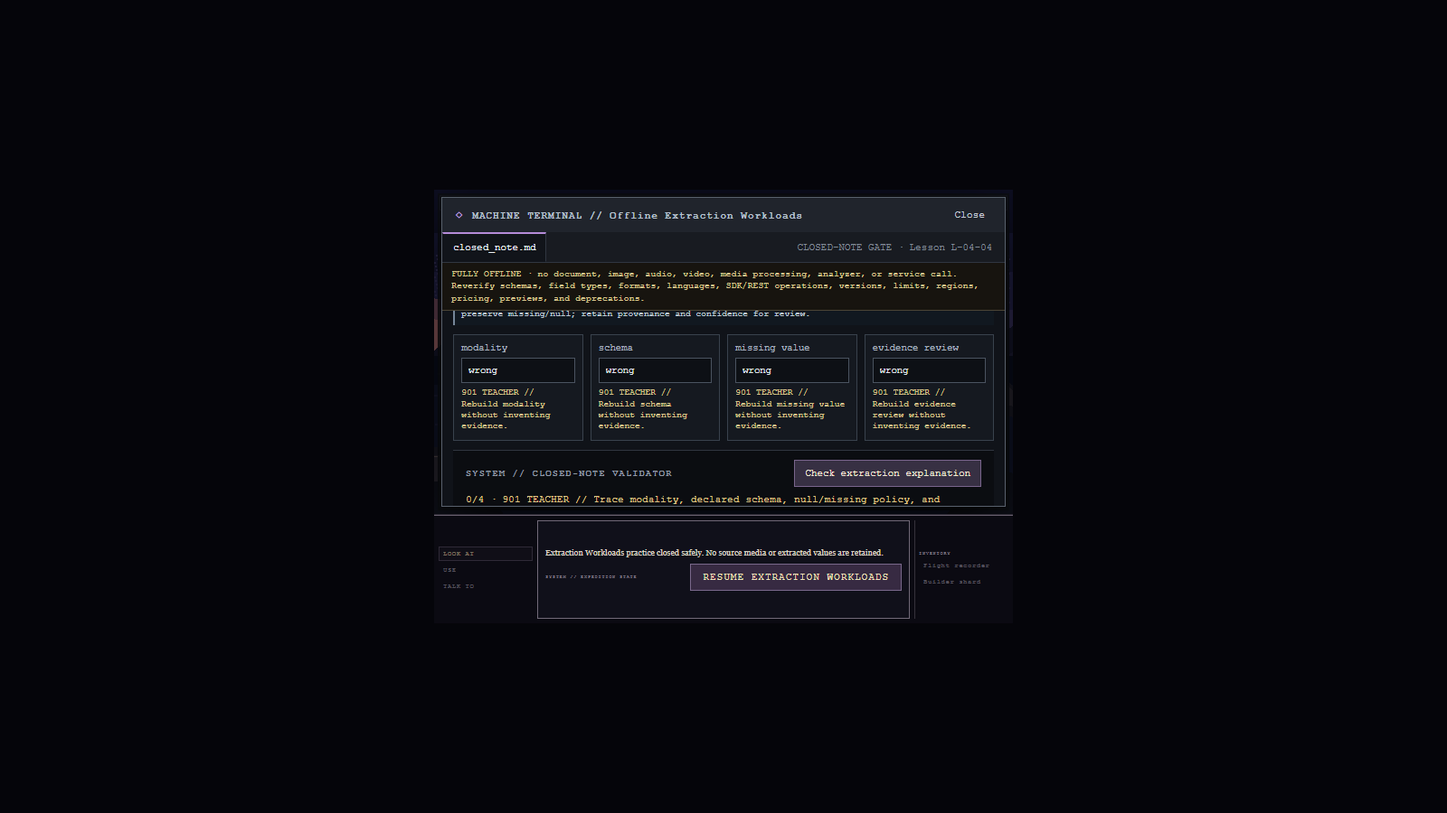
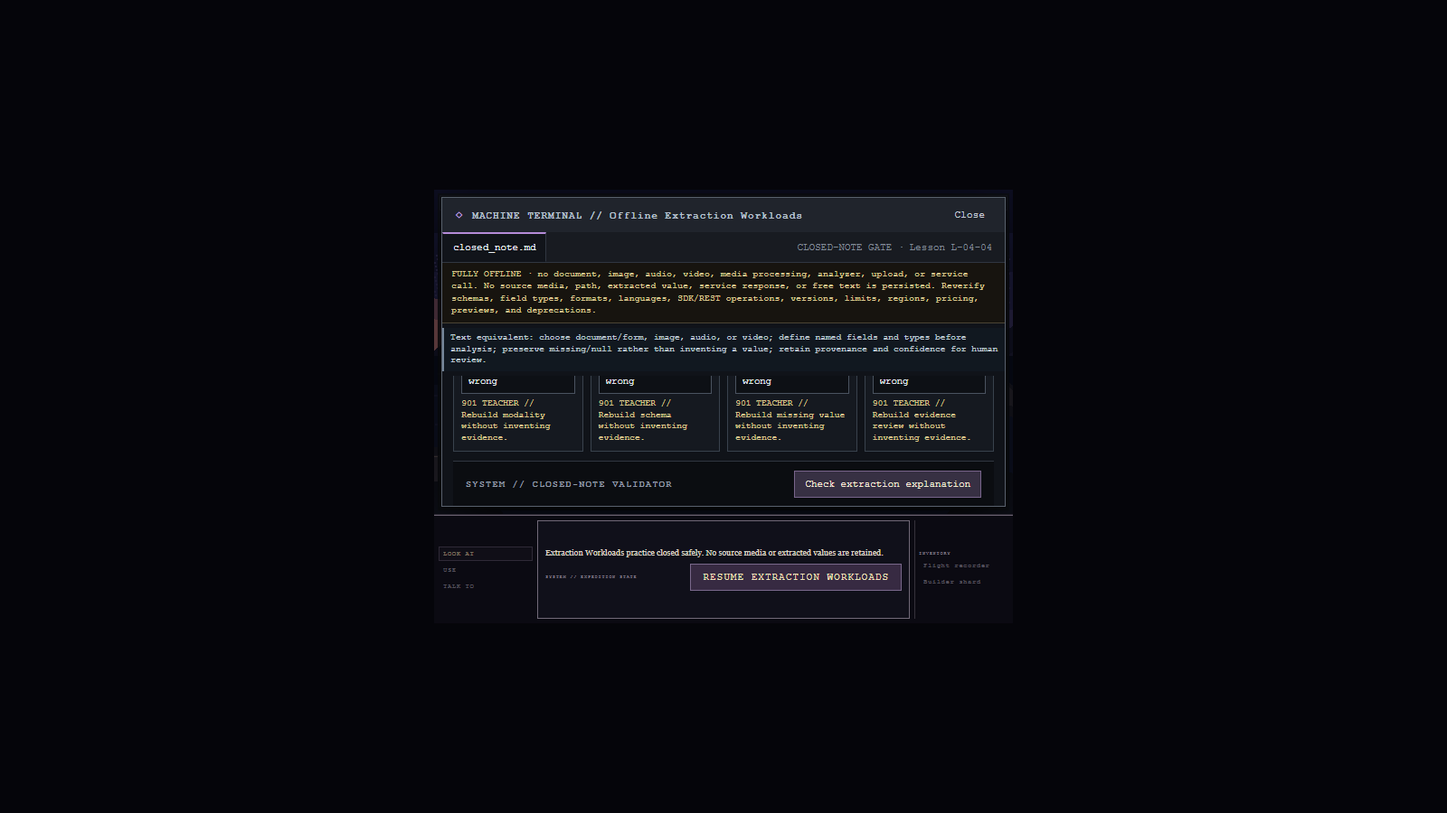
Round 16 step 5 Exercise Agent checkpoint

Changed region(s): [[0.3125, 0.3422, 0.6875, 0.6222]]

diff --git a/horizon-archive-game/src/App.jsx b/horizon-archive-game/src/App.jsx
@@ -177,12 +177,14 @@ import {
 import {
   evaluateExtractionExplanation,
   evaluateExtractionScenario,
+  extractionDialogDescribedBy,
   extractionDimensions,
   extractionExplanationDimensions,
   extractionPrimaryScenarios,
-  extractionRemediation,
   extractionTransferScenarios,
   extractionWorkloadExercise,
+  getExtractionExplanationFeedback,
+  getExtractionFeedback,
   getExtractionOptions,
   sanitizeExtractionEvidence,
   updateExtractionEvidence,
@@ -431,6 +433,7 @@ export function App() {
   const focusContinueAfterTextRef = useRef(false);
   const focusContinueAfterSpeechRef = useRef(false);
   const focusContinueAfterVisualRef = useRef(false);
+  const focusContinueAfterExtractionRef = useRef(false);
 
   function setDialogue(text, owner = "pilot") {
     setDialogueText(text);
@@ -533,6 +536,12 @@ export function App() {
     continueButtonRef.current?.focus({ preventScroll: true });
   }, [terminalOpen, pendingAdvance, visualEvidence?.masteryStatus]);
 
+  useLayoutEffect(() => {
+    if (!focusContinueAfterExtractionRef.current || terminalOpen || !pendingAdvance || extractionEvidence?.masteryStatus !== "mastered") return;
+    focusContinueAfterExtractionRef.current = false;
+    continueButtonRef.current?.focus({ preventScroll: true });
+  }, [terminalOpen, pendingAdvance, extractionEvidence?.masteryStatus]);
+
   function beginNewGame() {
     localStorage.removeItem(SAVE_KEY);
     setSceneIndex(0);
@@ -615,6 +624,7 @@ export function App() {
     if (saved.visualEvidence?.masteryStatus === "mastered") focusContinueAfterVisualRef.current = true;
     setVisualEvidence(saved.visualEvidence);
     setVisualSession(null);
+    if (saved.extractionEvidence?.masteryStatus === "mastered") focusContinueAfterExtractionRef.current = true;
     setExtractionEvidence(saved.extractionEvidence);
     setExtractionSession(null);
     setResponsibleAIEvidence(saved.responsibleAIEvidence);
@@ -1287,7 +1297,7 @@ export function App() {
   function advanceExtraction() { if (!extractionSession.result?.passed) return; const scenarios = extractionSession.form === "transfer" ? extractionTransferScenarios : extractionPrimaryScenarios; if (extractionSession.index === scenarios.length - 1) { if (extractionSession.form === "transfer") { setExtractionEvidence((previous) => updateExtractionEvidence(previous, { form: "explanation", masteryStatus: "transfer_complete", clearMisconceptionTags: true })); setExtractionSession({ ...extractionSession, form: "explanation", phase: "explanation", result: null, hintLevel: 0 }); } else setExtractionSession({ ...extractionSession, complete: true }); return; } setExtractionSession({ ...extractionSession, index: extractionSession.index + 1, response: { decision: "", reason: "" }, result: null, hintLevel: 0 }); }
   function acknowledgeExtractionPrimary() { if (!extractionSession?.complete || !extractionEvidence?.confidence) return; setExtractionEvidence((previous) => updateExtractionEvidence(previous, { form: "transfer", masteryStatus: "primary_complete", clearMisconceptionTags: true })); setExtractionSession(null); setTerminalOpen(false); setRuinsTerminalKind(null); setDialogue("Extraction Workloads primary form complete at 12 of 12. Fresh transfer and closed-note explanation remain.", "teacher"); }
   function checkExtractionExplanation(event) { event.preventDefault(); const result = evaluateExtractionExplanation(extractionSession.explanationResponse); setExtractionSession({ ...extractionSession, explanationResult: result }); setExtractionEvidence((previous) => updateExtractionEvidence(previous, { form: "explanation", scenarioId: "explanation", correctness: result.correctness, incrementAttempt: true, masteryStatus: "transfer_complete" })); }
-  function acknowledgeExtractionMastery() { if (!extractionSession?.explanationResult?.passed || !extractionSession.ownershipConfirmed || !extractionEvidence?.confidence) return; focusContinueAfterVisualRef.current = true; setExtractionEvidence((previous) => updateExtractionEvidence(previous, { form: "explanation", masteryStatus: "mastered", clearMisconceptionTags: true })); setExtractionSession(null); setTerminalOpen(false); setRuinsTerminalKind(null); setDialogue("Extraction Workloads mastery confirmed: both 12-of-12 forms and closed-note explanation are complete.", "teacher"); }
+  function acknowledgeExtractionMastery() { if (!extractionSession?.explanationResult?.passed || !extractionSession.ownershipConfirmed || !extractionEvidence?.confidence) return; focusContinueAfterExtractionRef.current = true; setExtractionEvidence((previous) => updateExtractionEvidence(previous, { form: "explanation", masteryStatus: "mastered", clearMisconceptionTags: true })); setExtractionSession(null); setTerminalOpen(false); setRuinsTerminalKind(null); setDialogue("Extraction Workloads mastery confirmed: both 12-of-12 forms and closed-note explanation are complete.", "teacher"); }
 
   function validateEvidenceOutput(event) {
     event.preventDefault();
@@ -2160,13 +2170,13 @@ export function App() {
           </TerminalShell>
         )}
         {terminalOpen && scene.id === "ruins" && ruinsTerminalKind === "extraction-workloads" && extractionSession && (
-          <TerminalShell exerciseId={extractionWorkloadExercise.exercise_id} title="Offline Extraction Workloads" filename={extractionSession.phase === "explanation" ? "closed_note.md" : `${extractionSession.form}_extraction.json`} lessonId={extractionWorkloadExercise.lesson_id} statusText={extractionSession.phase === "explanation" ? "CLOSED-NOTE GATE" : `${extractionSession.form.toUpperCase()} ${extractionSession.index + 1}/6`} closeLabel="Exit Extraction Workloads" restoreFocusTo={terminalTriggerRef.current} onClose={exitExtractionWorkloads}>
-            <section className="model-choice-workspace extraction-workspace"><p className="model-choice-boundary">FULLY OFFLINE · no document, image, audio, video, media processing, analyzer, or service call. Reverify schemas, field types, formats, languages, SDK/REST operations, versions, limits, regions, pricing, previews, and deprecations.</p>
+          <TerminalShell exerciseId={extractionWorkloadExercise.exercise_id} title="Offline Extraction Workloads" filename={extractionSession.phase === "explanation" ? "closed_note.md" : `${extractionSession.form}_extraction.json`} lessonId={extractionWorkloadExercise.lesson_id} statusText={extractionSession.phase === "explanation" ? "CLOSED-NOTE GATE" : `${extractionSession.form.toUpperCase()} ${extractionSession.index + 1}/6`} closeLabel="Exit Extraction Workloads" describedBy={extractionDialogDescribedBy} restoreFocusTo={terminalTriggerRef.current} onClose={exitExtractionWorkloads}>
+            <section className="model-choice-workspace extraction-workspace"><p id="extraction-offline-warning" className="model-choice-boundary" role="note">FULLY OFFLINE · no document, image, audio, video, media processing, analyzer, upload, or service call. No source media, path, extracted value, service response, or free text is persisted. Reverify schemas, field types, formats, languages, SDK/REST operations, versions, limits, regions, pricing, previews, and deprecations.</p><p id="extraction-text-equivalent" className="speech-transcript">Text equivalent: choose document/form, image, audio, or video; define named fields and types before analysis; preserve missing/null rather than inventing a value; retain provenance and confidence for human review.</p>
               {extractionSession.phase === "explanation" ? (
-                <form className="model-choice-form" onSubmit={checkExtractionExplanation}><header><p className="pane-label">PILOT // CLOSED-NOTE EXTRACTION OWNER</p><h2>Explain modality → schema → missing value → evidence review</h2><p className="speech-transcript">Text equivalent: choose document/form, image, audio, or video; define named fields before analysis; preserve missing/null; retain provenance and confidence for review.</p></header><div className="model-choice-fields extraction-explanation">{extractionExplanationDimensions.map((dimension) => { const fieldResult = extractionSession.explanationResult?.correctness[dimension]; const id = `extraction-explanation-${dimension}-feedback`; return <label key={dimension}><span>{dimension.replaceAll("_", " ")}</span><input aria-label={`Closed-note extraction ${dimension}`} aria-invalid={extractionSession.explanationResult ? !fieldResult : undefined} aria-describedby={extractionSession.explanationResult ? id : undefined} autoComplete="off" value={extractionSession.explanationResponse[dimension]} onChange={(event) => setExtractionSession({ ...extractionSession, explanationResponse: { ...extractionSession.explanationResponse, [dimension]: event.target.value }, explanationResult: null, ownershipConfirmed: false })} />{extractionSession.explanationResult && <small id={id}>{fieldResult ? "SYSTEM // Dimension confirmed." : `901 TEACHER // Rebuild ${dimension.replaceAll("_", " ")} without inventing evidence.`}</small>}</label>; })}</div><section className="terminal-console model-choice-output"><div className="console-heading-row"><strong>SYSTEM // CLOSED-NOTE VALIDATOR</strong><button className="run-action" type="submit" disabled={extractionExplanationDimensions.some((key) => !extractionSession.explanationResponse[key])}>Check extraction explanation</button></div><div className={extractionSession.explanationResult ? "console-feedback active" : "console-feedback"} role="status" aria-live="polite">{extractionSession.explanationResult ? `${extractionSession.explanationResult.score}/4 · ${extractionSession.explanationResult.passed ? "Complete extraction explanation confirmed." : "901 TEACHER // Trace modality, declared schema, null/missing policy, and evidence review."}` : "No source media, path, extracted value, service response, or answer choice is shown."}</div>{extractionSession.explanationResult?.passed && <><label className="ownership-confirmation"><input type="checkbox" checked={extractionSession.ownershipConfirmed} onChange={(event) => setExtractionSession({ ...extractionSession, ownershipConfirmed: event.target.checked })} />I produced this extraction explanation myself without notes.</label><fieldset className="confidence-group"><legend>Confidence after both forms</legend>{["low", "medium", "high"].map((value) => <label key={value}><input type="radio" name="extraction-confidence" checked={extractionEvidence?.confidence === value} onChange={() => setExtractionEvidence((previous) => updateExtractionEvidence(previous, { confidence: value }))} />{value}</label>)}</fieldset><button className="confirm-action" type="button" disabled={!extractionSession.ownershipConfirmed || !extractionEvidence?.confidence} onClick={acknowledgeExtractionMastery}>Acknowledge strict mastery</button></>}</section></form>
+                <form className="model-choice-form" onSubmit={checkExtractionExplanation}><header><p className="pane-label">PILOT // CLOSED-NOTE EXTRACTION OWNER</p><h2>Explain modality → schema → missing value → evidence review</h2><p>Your schema/null/evidence explanation remains Pilot-owned and session-only.</p></header><div className="model-choice-fields extraction-explanation">{extractionExplanationDimensions.map((dimension) => { const fieldResult = extractionSession.explanationResult?.correctness[dimension]; const id = `extraction-explanation-${dimension}-feedback`; return <label key={dimension}><span>{dimension.replaceAll("_", " ")}</span><input aria-label={`Closed-note extraction ${dimension}`} aria-invalid={extractionSession.explanationResult ? !fieldResult : undefined} aria-describedby={extractionSession.explanationResult ? id : undefined} autoComplete="off" value={extractionSession.explanationResponse[dimension]} onChange={(event) => setExtractionSession({ ...extractionSession, explanationResponse: { ...extractionSession.explanationResponse, [dimension]: event.target.value }, explanationResult: null, ownershipConfirmed: false })} />{extractionSession.explanationResult && <small id={id}>{fieldResult ? "SYSTEM // Dimension confirmed." : `901 TEACHER // Rebuild ${dimension.replaceAll("_", " ")} without inventing evidence.`}</small>}</label>; })}</div><section className="terminal-console model-choice-output"><div className="console-heading-row"><strong>SYSTEM // CLOSED-NOTE VALIDATOR</strong><button className="run-action" type="submit" disabled={extractionExplanationDimensions.some((key) => !extractionSession.explanationResponse[key])}>Check extraction explanation</button></div><div className={extractionSession.explanationResult ? "console-feedback active" : "console-feedback"} role="status" aria-live="polite">{getExtractionExplanationFeedback(extractionSession.explanationResult).systemScore}</div>{getExtractionExplanationFeedback(extractionSession.explanationResult).teacherRemediation && <p className="teacher-remediation"><strong>901 TEACHER // SCHEMA, NULL, AND EVIDENCE REMEDIATION</strong><span>{getExtractionExplanationFeedback(extractionSession.explanationResult).teacherRemediation}</span></p>}{extractionSession.explanationResult?.passed && <><label className="ownership-confirmation"><input type="checkbox" checked={extractionSession.ownershipConfirmed} onChange={(event) => setExtractionSession({ ...extractionSession, ownershipConfirmed: event.target.checked })} />I produced this extraction explanation myself without notes.</label><fieldset className="confidence-group"><legend>Confidence after both forms</legend>{["low", "medium", "high"].map((value) => <label key={value}><input type="radio" name="extraction-confidence" checked={extractionEvidence?.confidence === value} onChange={() => setExtractionEvidence((previous) => updateExtractionEvidence(previous, { confidence: value }))} />{value}</label>)}</fieldset><button className="confirm-action" type="button" disabled={!extractionSession.ownershipConfirmed || !extractionEvidence?.confidence} onClick={acknowledgeExtractionMastery}>Acknowledge strict mastery</button></>}</section></form>
               ) : extractionSession.complete ? (
                 <section className="workload-summary"><p className="pane-label">901 TEACHER // PRIMARY FORM COMPLETE</p><h2>12 / 12 dimensions</h2><p>Four modalities, schema-first reasoning, and missing/evidence integrity pass. Fresh transfer and closed-note explanation remain.</p><fieldset className="confidence-group"><legend>Confidence after primary form</legend>{["low", "medium", "high"].map((value) => <label key={value}><input type="radio" name="extraction-primary-confidence" checked={extractionEvidence?.confidence === value} onChange={() => setExtractionEvidence((previous) => updateExtractionEvidence(previous, { confidence: value }))} />{value}</label>)}</fieldset><button className="confirm-action" type="button" disabled={!extractionEvidence?.confidence} onClick={acknowledgeExtractionPrimary}>Acknowledge primary form</button></section>
-              ) : (() => { const scenarios = extractionSession.form === "transfer" ? extractionTransferScenarios : extractionPrimaryScenarios; const scenario = scenarios[extractionSession.index]; const options = getExtractionOptions(scenario.id, extractionSession.form); return <form className="model-choice-form" onSubmit={checkExtraction}><header><p className="pane-label">{extractionSession.form === "transfer" ? "FRESH TRANSFER" : "PRIMARY"} · PILOT // SCHEMA OWNER · {scenario.id}</p><p className="model-choice-layer-labels">DOCUMENT/FORM · IMAGE · AUDIO · VIDEO · FIELD SCHEMA · MISSING/EVIDENCE</p><h2>{scenario.prompt}</h2><p className="speech-transcript">Media-equivalent scenario text: {scenario.prompt}</p></header><div className="model-choice-fields">{extractionDimensions.map((dimension) => { const fieldResult = extractionSession.result?.correctness[dimension]; const id = `extraction-${dimension}-feedback`; return <label key={dimension}><span>{dimension}</span><select aria-label={`Extraction ${dimension}`} aria-invalid={extractionSession.result ? !fieldResult : undefined} aria-describedby={extractionSession.result ? id : undefined} value={extractionSession.response[dimension]} onChange={(event) => setExtractionSession({ ...extractionSession, response: { ...extractionSession.response, [dimension]: event.target.value }, result: null })}><option value="">Choose one</option>{options[dimension].map((value) => <option key={value} value={value}>{formatChoice(value)}</option>)}</select>{extractionSession.result && <small id={id}>{fieldResult ? "SYSTEM // Correct." : `901 TEACHER // Review ${dimension} from modality, requested fields, and evidence integrity.`}</small>}</label>; })}</div><section className="terminal-console model-choice-output"><div className="console-heading-row"><strong>SYSTEM // STRICT 12-DIMENSION VALIDATOR</strong><button className="run-action" type="submit" disabled={extractionDimensions.some((key) => !extractionSession.response[key])}>Check extraction choice</button></div><div className={extractionSession.result ? "console-feedback active" : "console-feedback"} role="status" aria-live="polite">{extractionSession.result ? `${extractionSession.result.score}/2 · ${extractionSession.result.passed ? "Choice confirmed." : extractionRemediation(scenario, extractionSession.result, extractionSession.hintLevel)}` : "Choose schema-driven extraction, then preserve missing/null and evidence for review."}</div>{extractionSession.result && !extractionSession.result.passed && <button className="hint-action" type="button" disabled={extractionSession.hintLevel >= 3} onClick={revealExtractionHint}>Reveal next extraction contrast</button>}{extractionSession.result?.passed && <button className="confirm-action" type="button" onClick={advanceExtraction}>{extractionSession.index === 5 ? (extractionSession.form === "transfer" ? "Begin closed-note explanation" : "View primary result") : "Next scenario"}</button>}</section></form>; })()}
+              ) : (() => { const scenarios = extractionSession.form === "transfer" ? extractionTransferScenarios : extractionPrimaryScenarios; const scenario = scenarios[extractionSession.index]; const options = getExtractionOptions(scenario.id, extractionSession.form); const feedback = getExtractionFeedback(scenario, extractionSession.result, extractionSession.hintLevel); return <form className="model-choice-form" onSubmit={checkExtraction}><header><p className="pane-label">{extractionSession.form === "transfer" ? "FRESH TRANSFER" : "PRIMARY"} · PILOT // SCHEMA OWNER · {scenario.id}</p><p className="model-choice-layer-labels">DOCUMENT/FORM · IMAGE · AUDIO · VIDEO · FIELD SCHEMA · MISSING/EVIDENCE</p><h2>{scenario.prompt}</h2><p className="speech-transcript">Media-equivalent scenario text: {scenario.prompt}</p></header><div className="model-choice-fields">{extractionDimensions.map((dimension) => { const fieldResult = extractionSession.result?.correctness[dimension]; const id = `extraction-${dimension}-feedback`; return <label key={dimension}><span>{dimension}</span><select aria-label={`Extraction ${dimension}`} aria-invalid={extractionSession.result ? !fieldResult : undefined} aria-describedby={extractionSession.result ? id : undefined} value={extractionSession.response[dimension]} onChange={(event) => setExtractionSession({ ...extractionSession, response: { ...extractionSession.response, [dimension]: event.target.value }, result: null })}><option value="">Choose one</option>{options[dimension].map((value) => <option key={value} value={value}>{formatChoice(value)}</option>)}</select>{extractionSession.result && <small id={id}>{fieldResult ? "SYSTEM // Correct." : `901 TEACHER // Review ${dimension} from modality, requested fields, and evidence integrity.`}</small>}</label>; })}</div><section className="terminal-console model-choice-output"><div className="console-heading-row"><strong>SYSTEM // STRICT 12-DIMENSION VALIDATOR</strong><button className="run-action" type="submit" disabled={extractionDimensions.some((key) => !extractionSession.response[key])}>Check extraction choice</button></div><div className={extractionSession.result ? "console-feedback active" : "console-feedback"} role="status" aria-live="polite">{feedback.systemScore}</div>{feedback.teacherRemediation && <p className="teacher-remediation"><strong>901 TEACHER // MODALITY, SCHEMA, AND EVIDENCE REMEDIATION</strong><span>{feedback.teacherRemediation}</span></p>}{extractionSession.result && !extractionSession.result.passed && <button className="hint-action" type="button" disabled={extractionSession.hintLevel >= 3} onClick={revealExtractionHint}>Reveal next extraction contrast</button>}{extractionSession.result?.passed && <button className="confirm-action" type="button" onClick={advanceExtraction}>{extractionSession.index === 5 ? (extractionSession.form === "transfer" ? "Begin closed-note explanation" : "View primary result") : "Next scenario"}</button>}</section></form>; })()}
             </section>
           </TerminalShell>
         )}

diff --git a/horizon-archive-game/src/extractionWorkloadExercise.js b/horizon-archive-game/src/extractionWorkloadExercise.js
@@ -2,6 +2,8 @@ import exerciseAsset from "../../curriculum/lessons/L-04-04/exercise.json" with 
 import scenarioBank from "../../curriculum/lessons/L-04-04/scenario_bank.json" with { type: "json" };
 import answerKey from "../../curriculum/lessons/L-04-04/answer_key.json" with { type: "json" };
 export const extractionWorkloadExercise = exerciseAsset; export const extractionPrimaryScenarios = scenarioBank.forms.primary; export const extractionTransferScenarios = scenarioBank.forms.transfer; export const extractionDimensions = exerciseAsset.dimensions; export const extractionExplanationDimensions = ["modality", "schema", "missing_value", "evidence_review"];
+export const extractionDialogDescriptionIds = ["extraction-offline-warning", "extraction-text-equivalent"];
+export const extractionDialogDescribedBy = extractionDialogDescriptionIds.join(" ");
 const wrongByTopic = { document_or_form_extraction: { decision: "summarization", reason: "a_summary_is_the_same_as_named_fields" }, image_extraction: { decision: "image_analysis", reason: "a_general_description_is_a_field_schema" }, audio_extraction: { decision: "transcription_only", reason: "a_transcript_is_the_final_structured_record" }, video_extraction: { decision: "captioning_only", reason: "captions_alone_are_the_requested_schema" }, integrity: { decision: "guess_value", reason: "every_schema_field_must_be_filled_even_without_evidence" } };
 const tags = { document_or_form_extraction: "summary-is-field-schema", image_extraction: "vision-description-is-extraction", audio_extraction: "audio-extraction-is-only-transcription", video_extraction: "video-extraction-is-only-captioning", integrity: "invented-missing-value" }; const validTags = new Set(exerciseAsset.misconception_tags); const all = [...extractionPrimaryScenarios, ...extractionTransferScenarios];
 export function getExtractionOptions(id, form = id?.startsWith("T") ? "transfer" : "primary") { const s = scenarioBank.forms[form].find((x) => x.id === id); const e = answerKey.forms[form][id]; const w = wrongByTopic[s.topic]; return { decision: [e.decision, w.decision], reason: [e.reason, w.reason] }; }
@@ -9,6 +11,8 @@ export function evaluateExtractionScenario(id, response, form = id?.startsWith("
 function norm(v) { return String(v ?? "").trim().toLowerCase().replace(/[^a-z0-9]+/g, "_").replace(/^_|_$/g, ""); }
 export function evaluateExtractionExplanation(response) { const e = { modality: "choose_document_image_audio_or_video_source", schema: "define_field_names_types_and_descriptions_before_analysis", missing_value: "preserve_null_or_missing_never_invent_value", evidence_review: "retain_provenance_and_confidence_for_human_review" }; const correctness = Object.fromEntries(extractionExplanationDimensions.map((k) => [k, norm(response[k]) === e[k]])); return { correctness, score: Object.values(correctness).filter(Boolean).length, passed: Object.values(correctness).every(Boolean) }; }
 export function extractionRemediation(s, r, l) { const missed = extractionDimensions.filter((k) => !r.correctness[k]); if (l <= 1) return `Review ${missed.join(" and ")}: name the input modality and required fields.`; if (l === 2) return `Contrast a general description/transcript with schema extraction for this ${s.topic.replaceAll("_", " ")} item.`; return "Inspect the field schema; preserve missing/null and retain evidence for review instead of inventing a value."; }
+export function getExtractionFeedback(s, r, l) { if (!r) return { systemScore: "Awaiting both extraction dimensions.", teacherRemediation: null }; return { systemScore: `${r.score}/2 · ${r.passed ? "CHOICE PASS · both dimensions confirmed." : "CHOICE NOT YET COMPLETE."}`, teacherRemediation: r.passed ? null : extractionRemediation(s, r, l) }; }
+export function getExtractionExplanationFeedback(r) { if (!r) return { systemScore: "Awaiting the learner's four-part extraction flow.", teacherRemediation: null }; return { systemScore: `${r.score}/4 · ${r.passed ? "EXPLANATION PASS · all four dimensions confirmed." : "EXPLANATION NOT YET COMPLETE."}`, teacherRemediation: r.passed ? null : "Trace modality, declared schema, null/missing policy, and evidence review without inventing a value." }; }
 function complete(c, scenarios) { return scenarios.every((s) => extractionDimensions.every((k) => c[s.id]?.[k] === true)); }
 export function sanitizeExtractionEvidence(v) { if (!v || typeof v !== "object" || v.exerciseId !== exerciseAsset.exercise_id) return null; const dimensionCorrectness = {}; for (const s of [...all, { id: "explanation", dimensions: extractionExplanationDimensions }]) { const keys = s.dimensions || extractionDimensions; if (v.dimensionCorrectness?.[s.id]) dimensionCorrectness[s.id] = Object.fromEntries(keys.filter((k) => typeof v.dimensionCorrectness[s.id][k] === "boolean").map((k) => [k, v.dimensionCorrectness[s.id][k]])); } const strict = complete(dimensionCorrectness, extractionPrimaryScenarios) && complete(dimensionCorrectness, extractionTransferScenarios) && extractionExplanationDimensions.every((k) => dimensionCorrectness.explanation?.[k] === true); let masteryStatus = ["in_progress", "remediation_required", "primary_complete", "transfer_complete", "mastered"].includes(v.masteryStatus) ? v.masteryStatus : "in_progress"; if (masteryStatus === "mastered" && !strict) masteryStatus = complete(dimensionCorrectness, extractionTransferScenarios) ? "transfer_complete" : complete(dimensionCorrectness, extractionPrimaryScenarios) ? "primary_complete" : "in_progress"; return { exerciseId: exerciseAsset.exercise_id, lessonId: exerciseAsset.lesson_id, activityId: exerciseAsset.activity_id, assessmentId: exerciseAsset.assessment_id, objectiveIds: [...exerciseAsset.objective_ids], skillIds: [...exerciseAsset.skill_ids], form: ["primary", "transfer", "explanation"].includes(v.form) ? v.form : "primary", dimensionCorrectness, attemptCount: Math.min(99, Math.max(0, Number.isInteger(v.attemptCount) ? v.attemptCount : 0)), hintLevel: Math.min(3, Math.max(0, Number.isInteger(v.hintLevel) ? v.hintLevel : 0)), confidence: ["low", "medium", "high"].includes(v.confidence) ? v.confidence : null, misconceptionTags: Array.isArray(v.misconceptionTags) ? [...new Set(v.misconceptionTags.filter((t) => validTags.has(t)))] : [], masteryStatus }; }
 export function updateExtractionEvidence(previous, changes = {}) { const safe = sanitizeExtractionEvidence(previous) || sanitizeExtractionEvidence({ exerciseId: exerciseAsset.exercise_id }); const dimensionCorrectness = { ...safe.dimensionCorrectness }; if (changes.scenarioId && changes.correctness) dimensionCorrectness[changes.scenarioId] = changes.correctness; return sanitizeExtractionEvidence({ ...safe, form: changes.form || safe.form, dimensionCorrectness, attemptCount: safe.attemptCount + (changes.incrementAttempt ? 1 : 0), hintLevel: Math.max(safe.hintLevel, changes.hintLevel || 0), confidence: changes.confidence || safe.confidence, misconceptionTags: changes.clearMisconceptionTags ? [] : [...safe.misconceptionTags, ...(changes.misconceptionTags || [])], masteryStatus: changes.masteryStatus || safe.masteryStatus }); }

diff --git a/horizon-archive-game/test/extractionWorkloadExercise.test.js b/horizon-archive-game/test/extractionWorkloadExercise.test.js
@@ -1,5 +1,8 @@
-import test from "node:test"; import assert from "node:assert/strict"; import primary from "../../curriculum/lessons/L-04-04/reference_primary_answers.json" with { type: "json" }; import transfer from "../../curriculum/lessons/L-04-04/reference_transfer_answers.json" with { type: "json" }; import { evaluateExtractionExplanation, evaluateExtractionScenario, extractionPrimaryScenarios, extractionTransferScenarios, sanitizeExtractionEvidence, updateExtractionEvidence } from "../src/extractionWorkloadExercise.js";
+import test from "node:test"; import assert from "node:assert/strict"; import primary from "../../curriculum/lessons/L-04-04/reference_primary_answers.json" with { type: "json" }; import transfer from "../../curriculum/lessons/L-04-04/reference_transfer_answers.json" with { type: "json" }; import { evaluateExtractionExplanation, evaluateExtractionScenario, extractionDialogDescribedBy, extractionDialogDescriptionIds, extractionPrimaryScenarios, extractionTransferScenarios, getExtractionExplanationFeedback, getExtractionFeedback, sanitizeExtractionEvidence, updateExtractionEvidence } from "../src/extractionWorkloadExercise.js";
+test("extraction dialog persistently associates offline warning and text equivalent", () => { assert.equal(extractionDialogDescribedBy, "extraction-offline-warning extraction-text-equivalent"); assert.equal(new Set(extractionDialogDescriptionIds).size, 2); });
 test("both extraction forms pass 12/12 across four modalities and two integrity items", () => { for (const [form, scenarios, answers] of [["primary", extractionPrimaryScenarios, primary], ["transfer", extractionTransferScenarios, transfer]]) { assert.equal(scenarios.length, 6); assert.equal(scenarios.filter((s) => s.topic === "integrity").length, 2); for (const s of scenarios) assert.equal(evaluateExtractionScenario(s.id, answers[s.id], form).score, 2); } });
 test("vision description and invented values fail independently", () => { assert.equal(evaluateExtractionScenario("P02", { decision: "image_analysis", reason: primary.P02.reason }, "primary").correctness.decision, false); assert.equal(evaluateExtractionScenario("P06", { decision: "guess_value", reason: primary.P06.reason }, "primary").correctness.decision, false); });
 test("closed-note extraction explanation requires modality schema missing and evidence", () => { assert.equal(evaluateExtractionExplanation({ modality: "choose document image audio or video source", schema: "define field names types and descriptions before analysis", missing_value: "preserve null or missing never invent value", evidence_review: "wrong" }).score, 3); });
+test("System scores remain neutral while Teacher owns schema, null, and evidence remediation", () => { const scenario = extractionPrimaryScenarios[5]; const result = evaluateExtractionScenario("P06", { decision: "guess_value", reason: primary.P06.reason }, "primary"); const feedback = getExtractionFeedback(scenario, result, 3); assert.equal(feedback.systemScore, "1/2 · CHOICE NOT YET COMPLETE."); assert.doesNotMatch(feedback.systemScore, /Teacher|schema|null|evidence/i); assert.match(feedback.teacherRemediation, /schema.*missing\/null.*evidence/i); });
+test("closed-note System score and Teacher remediation remain separate", () => { const feedback = getExtractionExplanationFeedback(evaluateExtractionExplanation({})); assert.equal(feedback.systemScore, "0/4 · EXPLANATION NOT YET COMPLETE."); assert.match(feedback.teacherRemediation, /modality.*schema.*null.*evidence/i); });
 test("strict sanitizer strips media paths values responses and free text", () => { let e = updateExtractionEvidence(null, {}); for (const [form, scenarios, answers] of [["primary", extractionPrimaryScenarios, primary], ["transfer", extractionTransferScenarios, transfer]]) for (const s of scenarios) e = updateExtractionEvidence(e, { form, scenarioId: s.id, correctness: evaluateExtractionScenario(s.id, answers[s.id], form).correctness }); e = updateExtractionEvidence(e, { form: "explanation", scenarioId: "explanation", correctness: { modality: true, schema: true, missing_value: true, evidence_review: true }, masteryStatus: "mastered" }); assert.equal(e.masteryStatus, "mastered"); const safe = sanitizeExtractionEvidence({ ...e, sourceMedia: "private", sourcePath: "private", extractedFieldValues: "private", serviceResponseBody: "private", freeFormReasoning: "private" }); for (const k of ["sourceMedia", "sourcePath", "extractedFieldValues", "serviceResponseBody", "freeFormReasoning"]) assert.equal(k in safe, false); });

diff --git a/horizon-archive-game/src/styles.css b/horizon-archive-game/src/styles.css
@@ -540,6 +540,7 @@ h1 {
 .visual-explanation { grid-template-columns: repeat(4, minmax(0, 1fr)); }
 .canonical-game-frame[data-canonical-layout="narrow"] .visual-explanation { grid-template-columns: 1fr; }
 .canonical-game-frame .terminal-workbench[data-terminal-exercise="EX-L0404-EXTRACTION-WORKLOADS"] { overflow: hidden; }
+.extraction-workspace { grid-template-rows: auto auto minmax(0, 1fr); }
 .extraction-explanation { grid-template-columns: repeat(4, minmax(0, 1fr)); }
 .canonical-game-frame[data-canonical-layout="narrow"] .extraction-explanation { grid-template-columns: 1fr; }
 .bridge-retrieval { overflow: auto; }

diff --git a/Exercise Development/WORK_LOG.md b/Exercise Development/WORK_LOG.md
@@ -1,5 +1,16 @@
 # Exercise Agent Work Log
 
+## 2026-07-12 — Information Extraction continuity closure
+
+- **Outcome:** Closed only the L-04-04 continuity contract. Primary, transfer, and closed-note System regions now contain neutral deterministic scores/status; modality/schema/null/evidence coaching is rendered separately as explicitly labeled 901 Teacher remediation.
+- **Persistent safety/text:** Every phase now carries an accessible offline warning covering no media, processing, upload, analyzer, or service call and explicitly states that source media, paths, extracted values, service responses, and free text are not persisted. A persistent text equivalent covers modality, schema, null/missing, provenance, confidence, and human review.
+- **Ownership/focus:** Closed-note schema/null/evidence prose remains Pilot-owned and session-only; completions remain Teacher-owned. A dedicated Extraction focus flag targets Continue after direct mastery and sanitized mastered-save reload.
+- **Preserved contracts:** Both strict 12/12 forms, four-part closed note, invented-value rejection, sanitizer/privacy, close/reopen, canonical/narrow layouts, and distinct captures remain intact. No L-05-01/L-05-02 gameplay was added.
+- **Files changed:** `horizon-archive-game/src/extractionWorkloadExercise.js`, its unit test, `App.jsx`, `styles.css`, `playtest/e2e-playthrough.mjs`, refreshed QA captures, and this log.
+- **Validation:** L-04-04 self-test passes; packaged primary and transfer pass 12/12; 91/91 unit tests pass; production build passes; full title-to-credits E2E passes with zero runtime errors and verifies all-phase messaging, ownership separation, privacy, distinct captures, and direct/restored Continue focus.
+- **Next recommended item:** Player Agent should independently audit announcement order, keyboard traversal, schema/null remediation, invented-value rejection, and narrow-screen reading order.
+- **Unresolved risks:** Automated DOM/focus checks do not substitute for a manual screen-reader pass. Live analyzer/service details remain intentionally excluded and require current official verification.
+
 ## 2026-07-12 — L-04-04 Offline Extraction Workloads complete Terminal gate
 
 - **Outcome:** Added `EX-L0404-EXTRACTION-WORKLOADS` as the mandatory offline Terminal after Visual Workloads. Mastery requires packaged primary 12/12, fresh transfer 12/12, and a four-part closed-note modality → schema → missing-value → evidence-review explanation. No L-05-01 gameplay was implemented.
